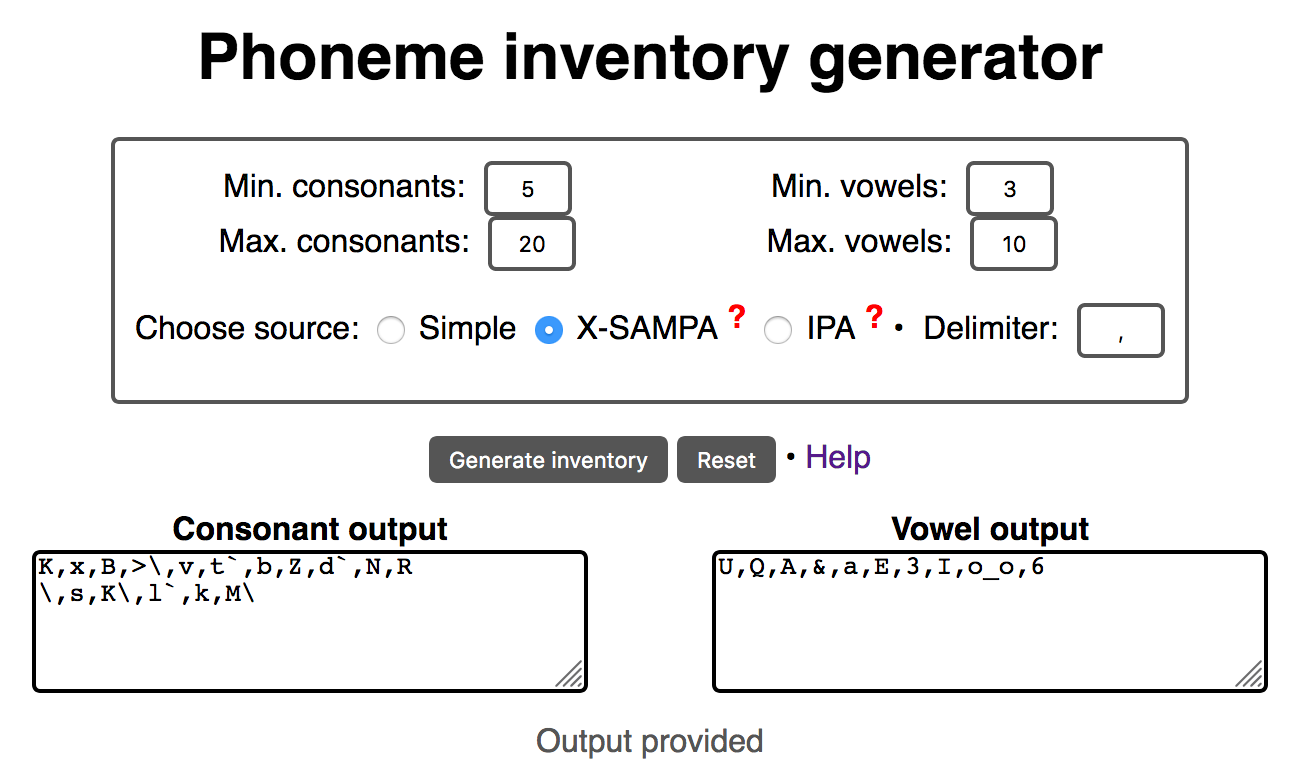
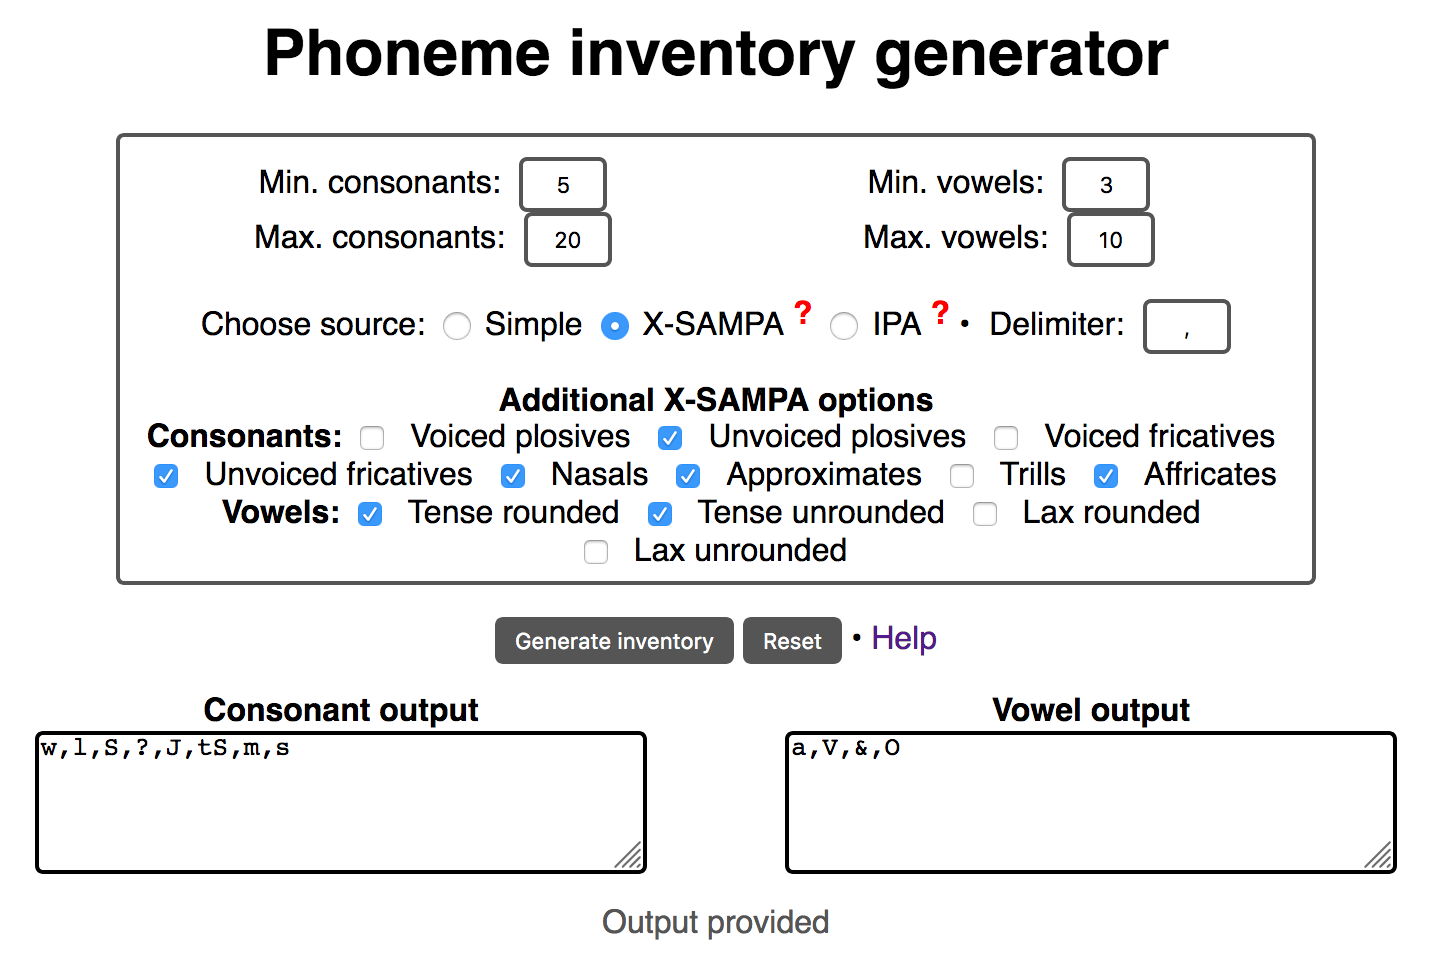
Expanded X-SAMPA options
Fixed IPA bug

Changed region(s): [[0.0, 0.0308, 0.9831, 0.9871]]

diff --git a/phongen.js b/phongen.js
@@ -1,33 +1,88 @@
-// Phoneme lists for global use (can be strings or arrays)
-// TODO: provide array, to allow for IPA phonemes that are more than one character long
-var ipaC = "pm̥mɱn̼n̥nɳ̊ɳɲ̊ɲŋ̊ŋɴpbp̪b̪t̼d̼tdʈɖcɟkɡqɢʡʔszʃʒʂʐɕʑ\
-ɸβfvθ̼ð̼θðθ̠ð̠ɹ̠̊˔ɹ̠˔ɻ˔çʝxɣχʁħʕhɦʋ̥ʋɹ̥ɹɻ̊ɻj̊jɰ̊ɰʔ̞ⱱ̟ⱱɾ̼ɾ̥ɾɽ̊ɽɢ̆ʡ̆\
-ʙ̥ʙr̥rɽ̊r̥ɽrʀ̥ʀʜʢɬɮɭ̊˔ɭ˔ʎ̝̊ʎ̝ʟ̝̊ʟ̝l̥lɭ̊ɭʎ̥ʎʟ̥ʟʟ̠ɺɭ̆ʎ̆ʟ̆";
-var ipaV = "iyɨʉɯuɪʏʊeøɘɵɤoø̞əo̞ɛœɜɞʌɔæɐaɶäɑɒ";
+// PHONEME LISTS for global use (can be strings or arrays)
+
+// IPA
+var ipaC = ["p","m̥","m","ɱ","n̼","n̥","n","ɳ̊","ɳ","ɲ̊","ɲ","ŋ̊","ŋ","ɴ","p","b","p̪",
+"b̪","t̼","d̼","t","d","ʈ","ɖ","c","ɟ","k","ɡ","q","ɢ","ʡ","ʔ","s","z","ʃ","ʒ","ʂ","ʐ",
+"ɕ","ʑ","ɸ","β","f","v","θ̼","ð̼","θ","ð","θ̠","ð̠","ɹ̠̊˔","ɹ̠˔","ɻ˔","ç","ʝ","x","ɣ",
+"χ","ʁ","ħ","ʕ","h","ɦ","ʋ̥","ʋ","ɹ̥","ɹ","ɻ̊","ɻ","j̊","j","ɰ̊","ɰ","ʔ̞","ⱱ̟","ⱱ","ɾ̼",
+"ɾ̥","ɾ","ɽ̊","ɽ","ɢ̆","ʡ̆","ʙ̥","ʙ","r̥","r","ɽ̊","r̥","ɽ","r","ʀ̥","ʀ","ʜ","ʢ","ɬ",
+"ɮ","ɭ̊˔","ɭ˔","ʎ̝̊","ʎ̝","ʟ̝̊","ʟ̝","l̥","l","ɭ̊","ɭ","ʎ̥","ʎ","ʟ̥","ʟ","ʟ̠","ɺ","ɭ̆",
+"ʎ̆","ʟ̆"];
+var ipaV = ["i","y","ɨ","ʉ","ɯ","u","ɪ","ʏ","ʊ","e","ø","ɘ","ɵ","ɤ","o","ø̞","ə","o̞",
+"ɛ","œ","ɜ","ɞ","ʌ","ɔ","æ","ɐ","a","ɶ","ä","ɑ","ɒ"];
+
+// SIMPLE - not linguistically valid, but an easy example to demonstrate the tool
+var simpleC = "pbtdkgfvszhmnwrlj";
+var simpleV = "iyueoa";
+
+/* // X-SAMPA implementation now uses chooseSource() function
 var sampaC = ["m","F","n","n`","J","N","N\\","p","b","p_d","b_d","t","d","t`","d`","c",
 	"J\\","k","g","q","G\\",">\\","?","p\\","B","f","v","T","D","s","z","S","Z","s`",
 	"z`","C","j\\","x","G","X","R","X\\","?\\","H\\","<\\","h","h\\","B_o","v\\","r\\",
 	"r\\`","j","M\\","B\\","r","R\\","4","r`","K","K\\","l","l`","L","L\\","l\\"];
 var sampaV = ["i","y","1","}","M","u","I","Y","I\\","U\\","U","e","2","@\\","8","7",
 	"o","e_o","2_o","@","o_o","E","9","3","3\\","V","O","{","6","a","&","a_","A","Q"];
-var simpleC = "pbtdkgfvszhmnwrly";
-var simpleV = "iyueoa";
+*/
 
-// Tab separated lists, if needed
-/*"pm̥\tm\tɱ\tn̼\tn̥\tn\tɳ̊\tɳ\tɲ̊\
-\tɲ\tŋ̊\tŋ\tɴ\t\n\
-p\tb\tp̪\tb̪\tt̼\td̼\tt\td\tʈ\tɖ\tc\tɟ\tk\tɡ\tq\tɢ\tʡ\tʔ\t\n\
-s\tz\tʃ\tʒ\tʂ\tʐ\tɕ\tʑ\t\n\
-ɸ\tβ\tf\tv\tθ̼\tð̼\tθ\tð\tθ̠\tð̠\tɹ̠̊˔\tɹ̠˔\tɻ˔\tç\tʝ\tx\tɣ\tχ\tʁ\tħ\tʕ\th\tɦ\
-ʋ̥\tʋ\tɹ̥\tɹ\tɻ̊\tɻ\tj̊\tj\tɰ̊\tɰ\tʔ̞\n\
-ⱱ̟\tⱱ\tɾ̼\tɾ̥\tɾ\tɽ̊\tɽ\tɢ̆\tʡ̆\t\n\
-ʙ̥\tʙ\tr̥\tr\tɽ̊r̥\tɽr\tʀ̥\tʀ\tʜ\tʢ\t\n\
-ɬ\tɮ\tɭ̊˔\tɭ˔\tʎ̝̊\tʎ̝\tʟ̝̊\tʟ̝\t\n\
-l̥\tl\tɭ̊\tɭ\tʎ̥\tʎ\tʟ̥\tʟ\tʟ̠\t\n\
-ɺ\tɭ̆\tʎ̆\tʟ̆\t";*/
-/*"i y\tɨ • ʉ\tɯ • u\n\
-ɪ • ʏ\t\t• ʊ\n\e • ø\tɘ • ɵ\tɤ • o\n\ø̞\tə\t• o̞\n\
-ɛ • œ\tɜ • ɞ\tʌ • ɔ\n\æ •\tɐ\n\a • ɶ\tä •\tɑ • ɒ";*/
+/////////////////////////////////
+
+/*
+*	Pick source phoneme list - returns nested arrays: [0] is C, [1] is V
+*/
+
+function chooseSource() {
+	
+	var cList = [];
+	var vList = [];
+	
+	// Note: "\" in X-SAMPA phonemes needs the escape character "\\"
+	
+	// CONSONANTS (unvoiced or voiced)
+	// Plosives
+	var plosUn = ["p","t","c","k","?"];
+	var plosVo = ["b","d","J\\","g"];
+	// Fricatives
+	var fricUn = ["f","T","s","S","h"];
+	var fricVo = ["v","D","z","Z"];
+	// Nasals
+	var nas = ["m","n","J","N"];
+	// Approximants
+	var app = ["w","r//","4","l","j"];
+	// Trills
+	var tri = ["r","R"];
+	// Affricates
+	var aff = ["ts","dz","tS","dZ"];
+	// TODO: Add the more exotic consonant options
+		
+	// Add user selected options to array
+	if (document.getElementById("plosUn").checked) {cList = cList.concat(plosUn);}
+	if (document.getElementById("plosVo").checked) {cList = cList.concat(plosVo);}
+	if (document.getElementById("fricUn").checked) {cList = cList.concat(fricUn);}
+	if (document.getElementById("fricVo").checked) {cList = cList.concat(fricVo);}
+	if (document.getElementById("nas").checked) {cList = cList.concat(nas);}
+	if (document.getElementById("app").checked) {cList = cList.concat(app);}
+	if (document.getElementById("tri").checked) {cList = cList.concat(tri);}
+	if (document.getElementById("aff").checked) {cList = cList.concat(aff);}
+	
+	// VOWELS (rounded or unrounded)
+	// Tense
+	var tenseRo = ["y","}","u","2","8","o","9","3\\","O","&","Q"];
+	var tenseUn = ["i","1","M","e","@\\","7","E","3","V","a",'a_"',"A"];
+	// Lax
+	var laxRo = ["Y","U","2_o","o_o"];
+	var laxUn = ["I","I\\","U\\","e_o","@","{","6"];
+	
+	// Add user selected options to array
+	if (document.getElementById("tenseRo").checked) {vList = vList.concat(tenseRo);}
+	if (document.getElementById("tenseUn").checked) {vList = vList.concat(tenseUn);}
+	if (document.getElementById("laxRo").checked) {vList = vList.concat(laxRo);}
+	if (document.getElementById("laxUn").checked) {vList = vList.concat(laxUn);}
+	
+	var chosenList = [cList,vList];
+	
+	return chosenList;
+
+}
 
 /////////////////////////////////
 
@@ -45,11 +100,13 @@ function generate() {
 		
 		// Check which source the user chooses
 		if (document.forms["mainForm"].source.value == "ipa") {
+			// TODO: implement shopper selector for IPA
 			var outC = geninv(ipaC,minC,maxC,delimiter);
 			var outV = geninv(ipaV,minV,maxV,delimiter);
 		} else if (document.forms["mainForm"].source.value == "sampa") {
-			var outC = geninv(sampaC,minC,maxC,delimiter);
-			var outV = geninv(sampaV,minV,maxV,delimiter);
+			var sampaIn = chooseSource(); // Use shopper selector: [0] is C, [1] is V
+			var outC = geninv(sampaIn[0],minC,maxC,delimiter);
+			var outV = geninv(sampaIn[1],minV,maxV,delimiter);
 		} else { // Use simple as default
 			var outC = geninv(simpleC,minC,maxC,delimiter);
 			var outV = geninv(simpleV,minV,maxV,delimiter);
@@ -138,6 +195,20 @@ function reset() {
 	document.forms["mainForm"].outC.value = "";
 	document.forms["mainForm"].outV.value = "";
 	document.getElementById("messageField").innerHTML = ""; // TODO: not working
+	showHideDiv();
 }
 	
 //////////////////////////////////
+
+/*
+*	Show/hide div element
+*/
+
+function showHideDiv(name) {
+  var x = document.getElementById(name);
+  if (document.forms["mainForm"].source.value == "sampa") {
+    x.style.display = "block";
+  } else {
+    x.style.display = "none";
+  }
+} 

diff --git a/phongen.html b/phongen.html
@@ -49,7 +49,7 @@
 		.label {
 			padding: 0px 5px;
 		}
-		#letter-label, #output-label {
+		#letter-label, #output-label, .shopper-label {
 			font-weight: bold;
 		}
 		}
@@ -79,6 +79,7 @@
   			display: table;
   			clear: both;
 		}
+		#sourceShopper {display: none;} /* Hidden when page loads */
 	</style>
 
   </head>
@@ -113,14 +114,16 @@
 				Choose source: 
 				<span class="nowrap">
 					<input type="radio" id="newline" name="source" value="simple" 
-						checked>
+						onclick="showHideDiv('sourceShopper')" checked>
 					<label for="simple">Simple</label>
-					<input type="radio" id="comma" name="source" value="sampa">
+					<input type="radio" id="comma" name="source" value="sampa"
+						onclick="showHideDiv('sourceShopper')">
 					<label for="sampa">X-SAMPA
 				<a class="mini-link" target="_blank"
 				href="https://en.wikipedia.org/wiki/X-SAMPA">
 				?</a></label>
-					<input type="radio" id="comma" name="source" value="ipa">
+					<input type="radio" id="comma" name="source" value="ipa"
+						onclick="showHideDiv('sourceShopper')">
 					<label for="ipa">IPA
 				<a class="mini-link" target="_blank"
 				href="https://en.wikipedia.org/wiki/International_Phonetic_Alphabet">
@@ -131,11 +134,93 @@
 						<span class="label" id="param-label">Delimiter:</span>
 						<input type="text" name="delimiter" value=","></text>
 				</span>
+			<div id="sourceShopper">
+				<div id="consonants">
+				<div class="shopper-label">Additional X-SAMPA options</div>
+				<span class="shopper-label">Consonants:</span>
+				<span class="nowrap">
+					<input type="checkbox" id="plosVo" class="checkmark" checked>
+					<span class="label" id="param-label">
+						<label for="plosVo">Voiced plosives</label>
+					</span>
+				</span>
+				<span class="nowrap">
+					<input type="checkbox" id="plosUn" class="checkmark" checked>
+					<span class="label" id="param-label">
+						<label for="plosUn">Unvoiced plosives</label>
+					</span>
+				</span>
+				<span class="nowrap">
+					<input type="checkbox" id="fricVo" class="checkmark" checked>
+					<span class="label" id="param-label">
+						<label for="fricVo">Voiced fricatives</label>
+					</span>
+				</span>
+				<span class="nowrap">
+					<input type="checkbox" id="fricUn" class="checkmark" checked>
+					<span class="label" id="param-label">
+						<label for="fricUn">Unvoiced fricatives</label>
+					</span>
+				</span>
+				<span class="nowrap">
+					<input type="checkbox" id="nas" class="checkmark" checked>
+					<span class="label" id="param-label">
+						<label for="nas">Nasals</label>
+					</span>
+				</span>
+				<span class="nowrap">
+					<input type="checkbox" id="app" class="checkmark" checked>
+					<span class="label" id="param-label">
+						<label for="app">Approximates</label>
+					</span>
+				</span>
+				<span class="nowrap">
+					<input type="checkbox" id="tri" class="checkmark" checked>
+					<span class="label" id="param-label">
+						<label for="tri">Trills</label>
+					</span>
+				</span>
+				<span class="nowrap">
+					<input type="checkbox" id="aff" class="checkmark" checked>
+					<span class="label" id="param-label">
+						<label for="aff">Affricates</label>
+					</span>
+				</span>
+				</div>
+				<div id="vowels">
+				<span class="shopper-label">Vowels:</span>
+				<span class="nowrap">
+					<input type="checkbox" id="tenseRo" class="checkmark" checked>
+					<span class="label" id="param-label">
+						<label for="tenseRo">Tense rounded</label>
+					</span>
+				</span>
+				<span class="nowrap">
+					<input type="checkbox" id="tenseUn" class="checkmark" checked>
+					<span class="label" id="param-label">
+						<label for="tenseUn">Tense unrounded</label>
+					</span>
+				</span>
+				<span class="nowrap">
+					<input type="checkbox" id="laxRo" class="checkmark" checked>
+					<span class="label" id="param-label">
+						<label for="laxRo">Lax rounded</label>
+					</span>
+				</span>
+				<span class="nowrap">
+					<input type="checkbox" id="laxUn" class="checkmark" checked>
+					<span class="label" id="param-label">
+						<label for="laxUn">Lax unrounded</label>
+					</span>
+				</span>
+				</div>
+			</div>
 		</div>
 		<p>
 			<input type=button class="button" value="Generate inventory" 
 				onClick="generate()"/>
-			<input type=button class="button" value="Reset" onClick="reset()"/>
+			<input type=button class="button" value="Reset" 
+				onClick="reset();showHideDiv('sourceShopper')"/>
 			&bull;
 			<a href="https://github.com/aaa2016/phoneme-inventory-generator" 
 				target="_blank">Help</a>

diff --git a/README.md b/README.md
@@ -10,17 +10,17 @@
 This tool builds random phoneme inventories using some preselected parameters:
 * Minimum and maximum number of consonants
 * Minimum and maximum number of vowels
-* Whether to use a [IPA](https://en.wikipedia.org/wiki/International_Phonetic_Alphabet) list (slightly buggy), [X-SAMPA](https://en.wikipedia.org/wiki/X-SAMPA), or a simpler list of phoneme options
+* Whether to use a [IPA](https://en.wikipedia.org/wiki/International_Phonetic_Alphabet) list, [X-SAMPA](https://en.wikipedia.org/wiki/X-SAMPA), or a simpler list of phoneme options
+* Also for X-SAMPA only: which types of consonant or vowel to include/exclude, eg. voiced plosive consonants, lax rounded vowels
 * What delimiter to use in the output list (default: comma)
 
 ## Features yet to be implemented<a name="features"></a>
 
 * Option to generate vowel oligophthongs and consonant clusters, including affricates
-* Add non-pulmonic consonants, eg. clicks
-* Considerations for naturalness
-* Option to make preferences on plosives, fricatives, nasals, liquids etc.
-* Option to choose whether to have voiceless/voiced consonants
-* Link to [word generator](https://github.com/aaa2016/word-generator/) to generate sample words
+* Add non-pulmonic and other exotic consonants for X-SAMPA and IPA, eg. clicks
+* For IPA create same choice of which types of consonant or vowel to include/exclude
+* Considerations for naturalness baned on phonological constraints and phoneme frequencies
+* Tie in to the [word generator](https://github.com/aaa2016/word-generator/) tool to generate sample words
 
 ## Screenshot<a name="examples"></a>
 
